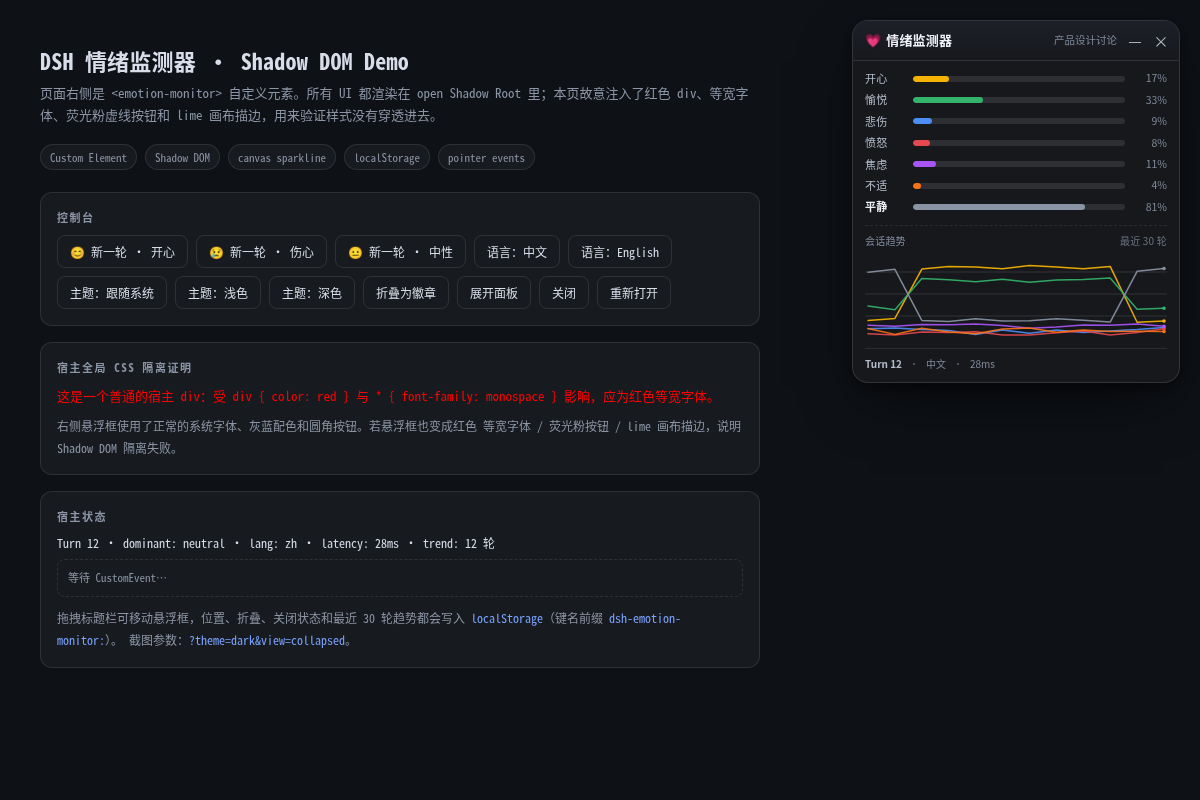
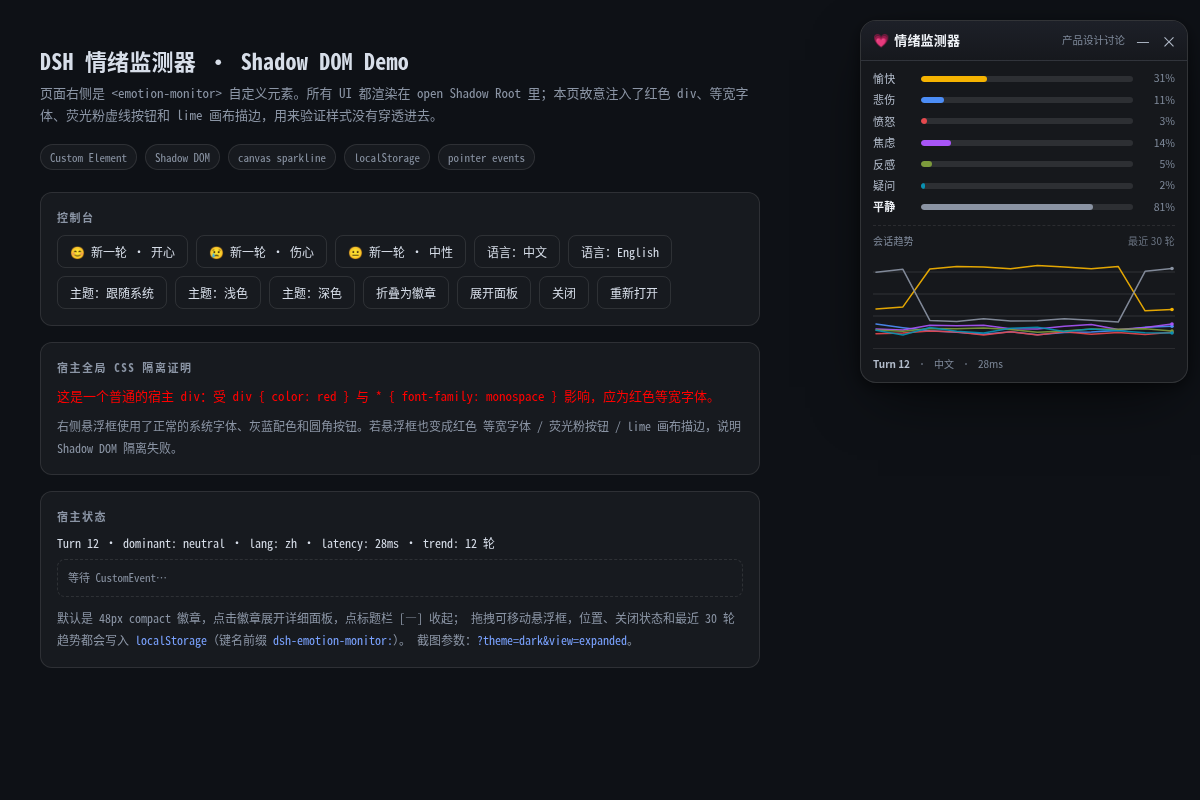
verify(widget): compact 默认态与交互回归 (#31)

diff --git a/tests/widget.test.ts b/tests/widget.test.ts
@@ -62,6 +62,22 @@ test('emotion metadata: seven dimensions with expected emoji + colours', () => {
     colours.add(meta.color.toLowerCase())
   }
   assert.equal(colours.size, EMOTION_DIMENSIONS.length, 'colours are unique')
+
+  // Issue #30: happy merged into pleasant, label is 愉快.
+  assert.equal(EMOTION_META.pleasant.label, '愉快')
+  assert.equal(EMOTION_META.pleasant.emoji, '😊')
+  assert.equal(EMOTION_META.pleasant.color, '#F5B301')
+  assert.equal('happy' in EMOTION_META, false, 'happy dimension is removed')
+
+  // Issue #32: unwell renamed 反感 and decoupled from sad.
+  assert.equal(EMOTION_META.unwell.label, '反感')
+  assert.equal(EMOTION_META.unwell.emoji, '🤢')
+  assert.equal(EMOTION_META.unwell.color, '#7C9A3B')
+
+  // Question dimension.
+  assert.equal(EMOTION_META.confused.label, '疑问')
+  assert.equal(EMOTION_META.confused.emoji, '🤔')
+  assert.equal(EMOTION_META.confused.color, '#0891B2')
 })
 
 test('normalizeScore: clamps, ignores junk, treats >1 as percent', () => {
@@ -248,6 +264,8 @@ test('badge gradient/glow clamp intensity and use the emotion colour', () => {
   assert.equal(badgeBackground('pleasant', -5), low, 'intensity is clamped')
   assert.match(badgeGlow('sad', 1), /^rgba\(76, 141, 246, /)
   assert.match(badgeGlow('sad', 0), /^rgba\(76, 141, 246, /)
+  assert.match(badgeBackground('unwell', 1), /rgba\(124, 154, 59, /)
+  assert.match(badgeBackground('confused', 1), /rgba\(8, 145, 178, /)
 })
 
 test('emptyState is a valid, zeroed waiting state', () => {

diff --git a/demo/index.html b/demo/index.html
@@ -216,9 +216,10 @@
       <div id="status">初始化中…</div>
       <div id="eventlog">等待 CustomEvent…</div>
       <p class="note" style="margin-top: 10px">
-        拖拽标题栏可移动悬浮框，位置、折叠、关闭状态和最近 30 轮趋势都会写入
+        默认是 48px compact 徽章，点击徽章展开详细面板，点标题栏 [—] 收起；
+        拖拽可移动悬浮框，位置、关闭状态和最近 30 轮趋势都会写入
         <code>localStorage</code>（键名前缀 <code>dsh-emotion-monitor:</code>）。
-        截图参数：<code>?theme=dark&amp;view=collapsed</code>。
+        截图参数：<code>?theme=dark&amp;view=expanded</code>。
       </p>
     </section>
   </main>

diff --git a/src/widget/standalone.ts b/src/widget/standalone.ts
@@ -200,6 +200,7 @@ function initDemo(): void {
   else demo.setTheme('system')
 
   const view = params.get('view')
+  if (view === 'expanded') demo.expand()
   if (view === 'collapsed') demo.collapse()
   if (view === 'closed') demo.hide()
 }

diff --git a/docs/e2e.md b/docs/e2e.md
@@ -34,10 +34,10 @@ CDP 断言（真实页面）：
 | `customElements.get('emotion-monitor')` | function |
 | `document.createElement('emotion-monitor')` | 不抛错，构造函数为自定义类，shadowRoot 存在 |
 | portal 容器 `[data-dsh-emotion-analyzer]` | 1 个 |
-| 元素尺寸（展开） | 328×139 |
-| 点击折叠按钮 | `data-view=collapsed`、48×48、徽章 emoji 😐 |
-| hover 徽章 | `data-preview=true`（220ms 预览） |
-| 点击徽章 | 恢复 `data-view=expanded` |
+| 默认态 | `data-view=collapsed`、48×48、徽章 emoji 😐 |
+| 点击徽章 | 展开 328×139（等待态面板；有数据时含分数条/sparkline） |
+| 点击折叠按钮 | 回到 `data-view=collapsed`、48×48 |
+| hover 徽章 | 不展开（#31 移除 hover 预览） |
 | 页面 console | 修复 #20 后 0 个异常 |
 
 ## 未验证 / 已知限制
